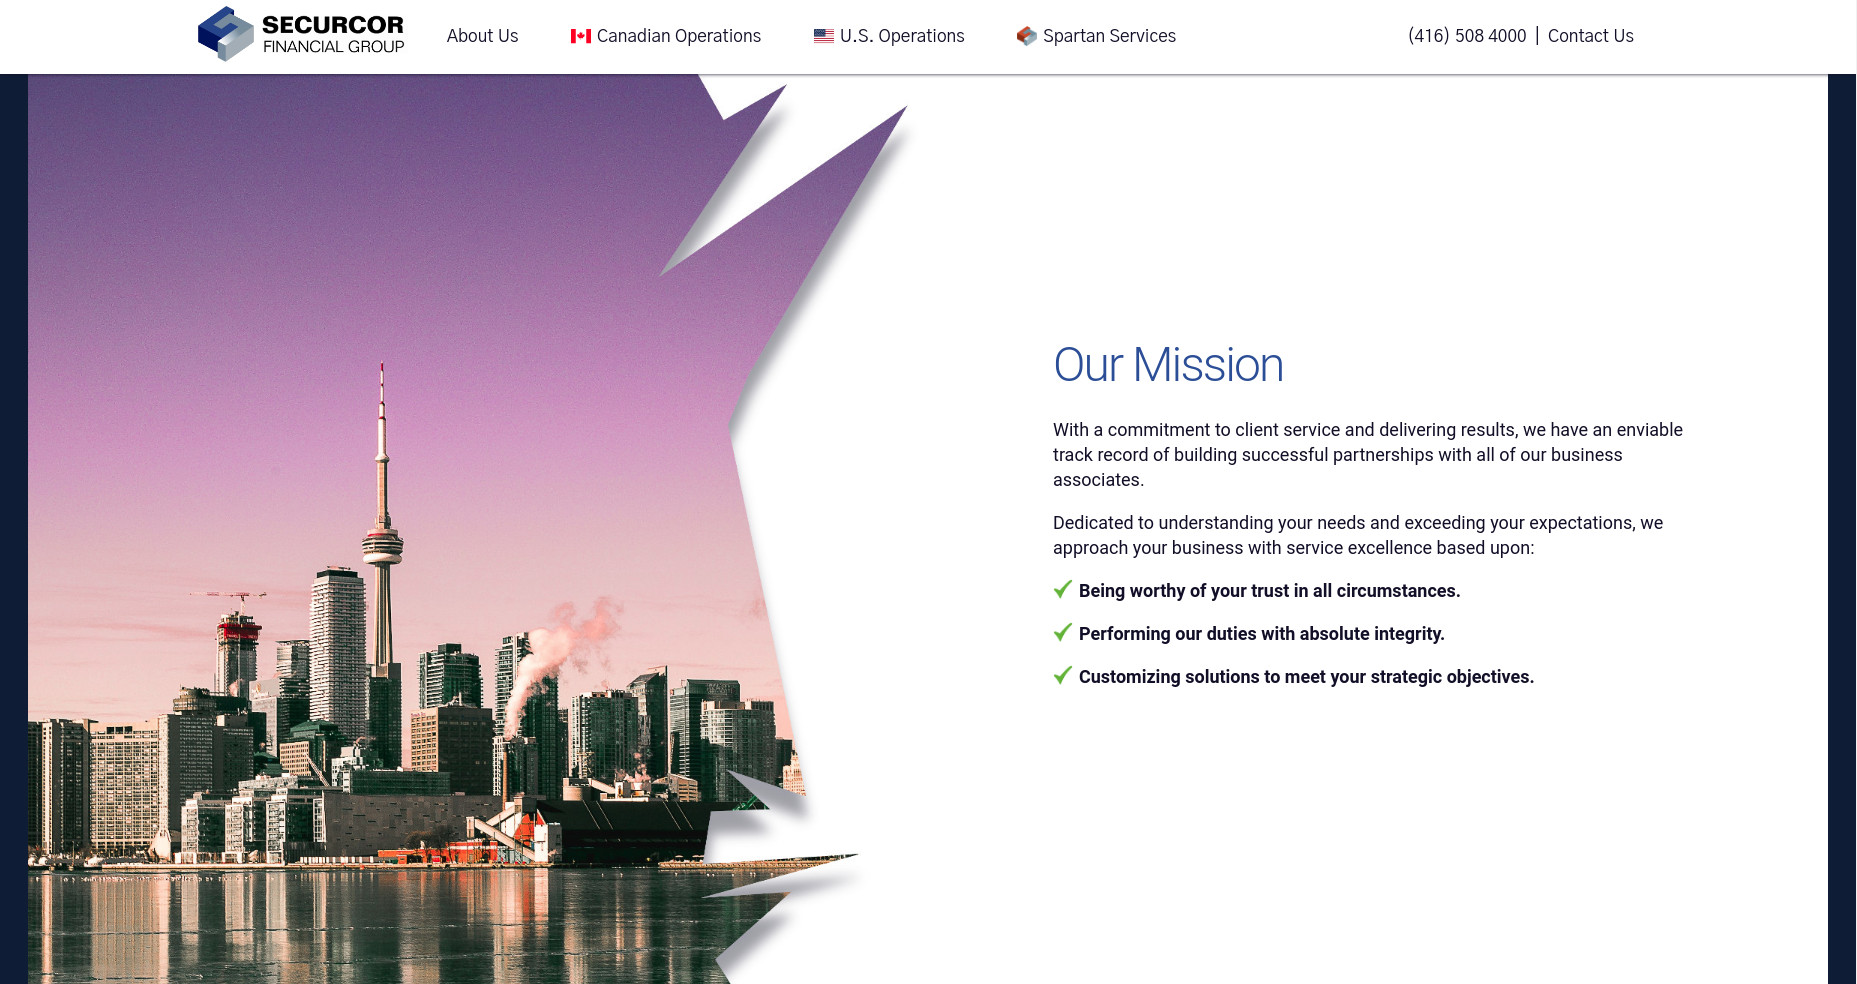
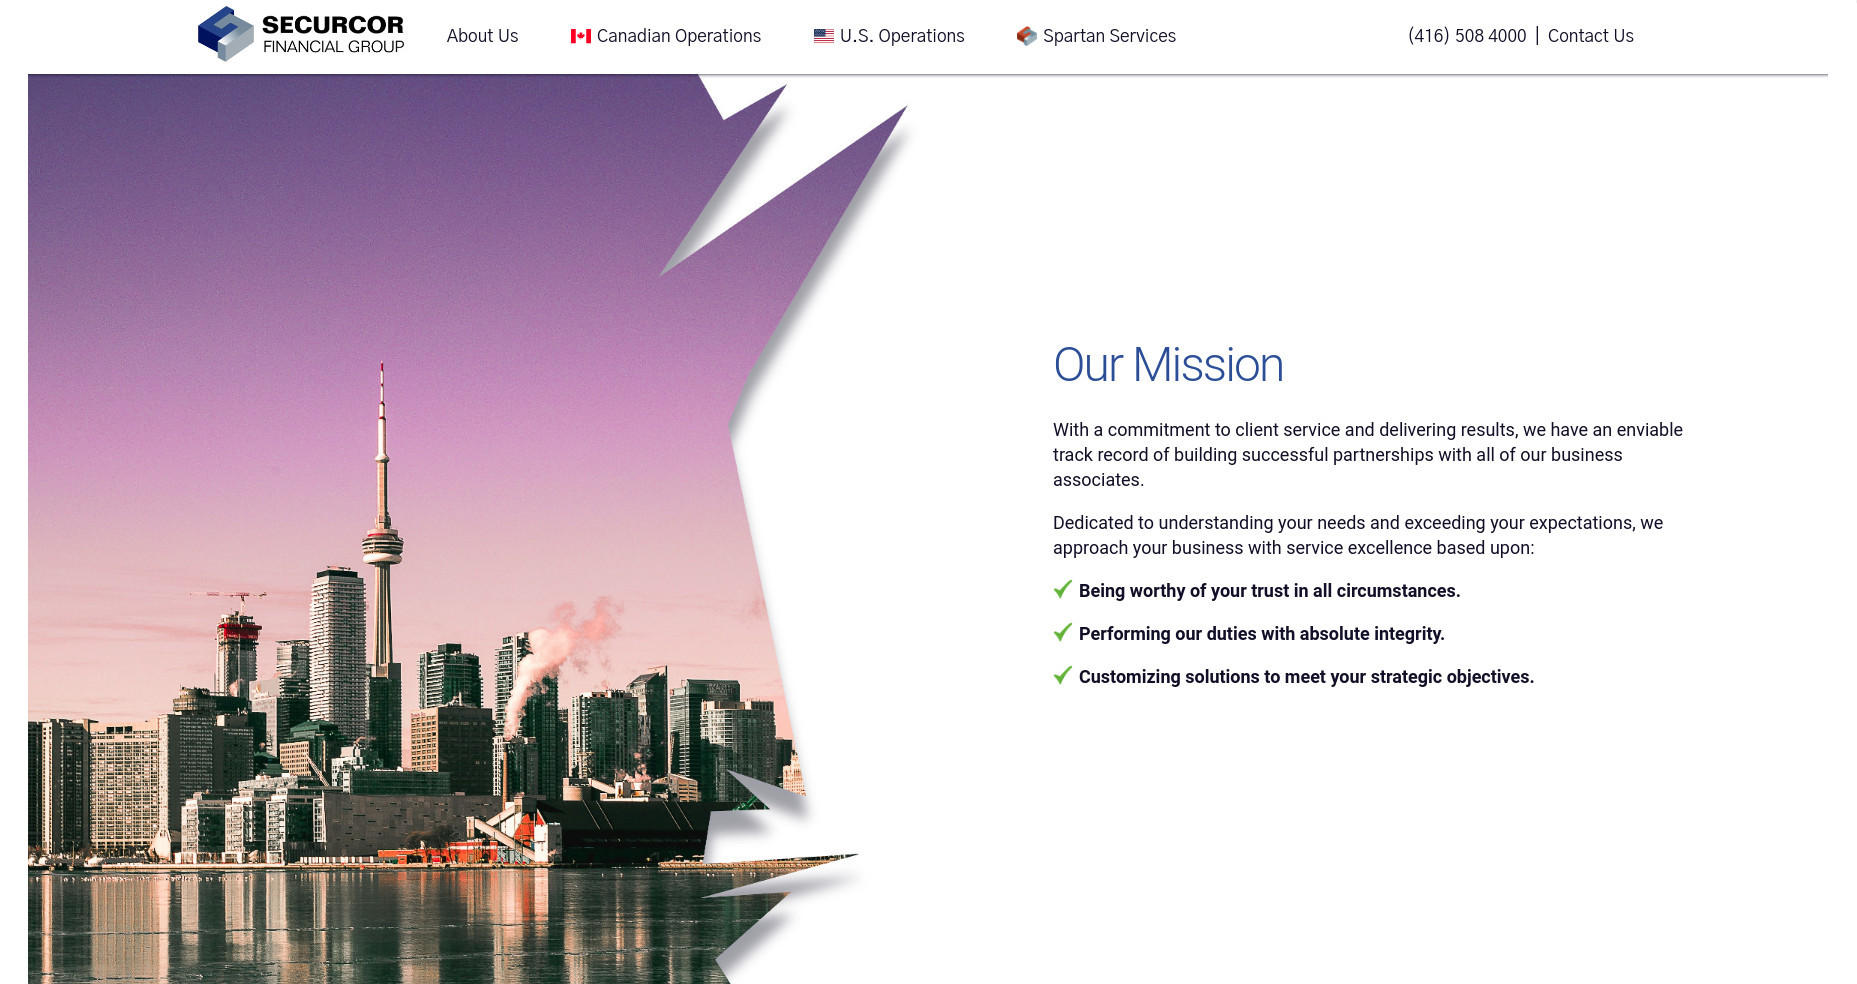
last commit for the day

Changed region(s): [[0.9682, 0.061, 0.9995, 1.0], [0.0, 0.061, 0.0312, 1.0]]

diff --git a/src/containers/Aboutpage.js b/src/containers/Aboutpage.js
@@ -46,9 +46,9 @@ class Aboutpage extends Component {
     } else if (this.state.motive && (scrollHeightRatio < 0.75 || scrollHeightRatio > 1.25)) {
       this.setState({ motive: false });
     }
-    if (!this.state.securcor && (scrollHeightRatio >= 1.5 && scrollHeightRatio <= 2.25)) {
+    if (!this.state.securcor && (scrollHeightRatio >= 1.55 && scrollHeightRatio <= 2.25)) {
       this.setState({ securcor: true });
-    } else if (this.state.securcor && (scrollHeightRatio < 1.5 || scrollHeightRatio > 2.25)) {
+    } else if (this.state.securcor && (scrollHeightRatio < 1.55 || scrollHeightRatio > 2.25)) {
       this.setState({ securcor: false });
     }
   }
@@ -85,23 +85,22 @@ class Aboutpage extends Component {
         </div>
         {/* Securcor */}
         <div className='project-wrapper'>
+          <div className='securcor-pic-1' style={{ backgroundImage: `url(${securcormission})`, opacity: securcor ? 1 : 0 }} />
           <div className='project-text-wrapper' style={{ opacity: securcor ? 1 : 0, WebkitFilter: securcor ? 'blur(0px)' : 'blur(5px)' }}>
             <p className='project-title'>Securcor</p>
-            <p className='project-text'>Designed and implemented an external website for the Securcor Financial Group. </p>
+            <p className='project-text'>Designed and implemented the external website for Securcor Financial Group. </p>
             {/* Securcor access buttons */}
             <div style={{ display: 'flex', flexDirection: 'row', marginTop: 26 }}>
               <div onClick={() => window.open("https://securcor.com", "_blank")} className='button-primary'>
-                <p>View Online</p>
+                <p>Visit Site</p>
               </div>
               <div onClick={() => window.open("coop", "_blank")} className='button-secondary'>
                 <p>Read More</p>
               </div>
             </div>
           </div>
-          <div className='motive-pic-wrapper'>
-            <div className='motive-pic-2' style={{ backgroundImage: `url(${securcorhome})`, backgroundPosition: securcor ? 'center bottom' : 'center 100vh', opacity: securcor ? 1 : 0 }} />
-            <div className='motive-pic-1' style={{ backgroundImage: `url(${securcormission})`, backgroundPosition: securcor ? 'center bottom' : 'center 100vh', opacity: securcor ? 1 : 0 }} />
-          </div>
+          {/* Pictures of design */}
+          <div className='securcor-pic-2' style={{ backgroundImage: `url(${securcorhome})`, opacity: securcor ? 1 : 0 }} />
         </div>
       </div >
     )

diff --git a/src/css/Aboutpage.css b/src/css/Aboutpage.css
@@ -41,7 +41,7 @@
 }
 
 .project-wrapper {
-  min-height: 80vh;
+  min-height: 100vh;
   position: relative;
   display: flex;
   align-items: center;
@@ -97,6 +97,27 @@
   background-size: contain;
   transition: all 0.35s cubic-bezier(0.165, 0.84, 0.44, 1);
   overflow: hidden;
+}
+
+.securcor-pic-1 {
+  position: absolute;
+  top: -50%;
+  left: 0;
+  height: 70%;
+  width: 70%;
+  background-size: contain;
+  transition: all 0.35s cubic-bezier(0.165, 0.84, 0.44, 1);
+}
+
+.securcor-pic-2 {
+  position: absolute;
+  right: 0;
+  top: 50%;
+  transform: translate(0, -50%);
+  height: 50%;
+  width: 50%;
+  background-size: contain;
+  transition: all 0.35s cubic-bezier(0.165, 0.84, 0.44, 1);
 }
 
 
